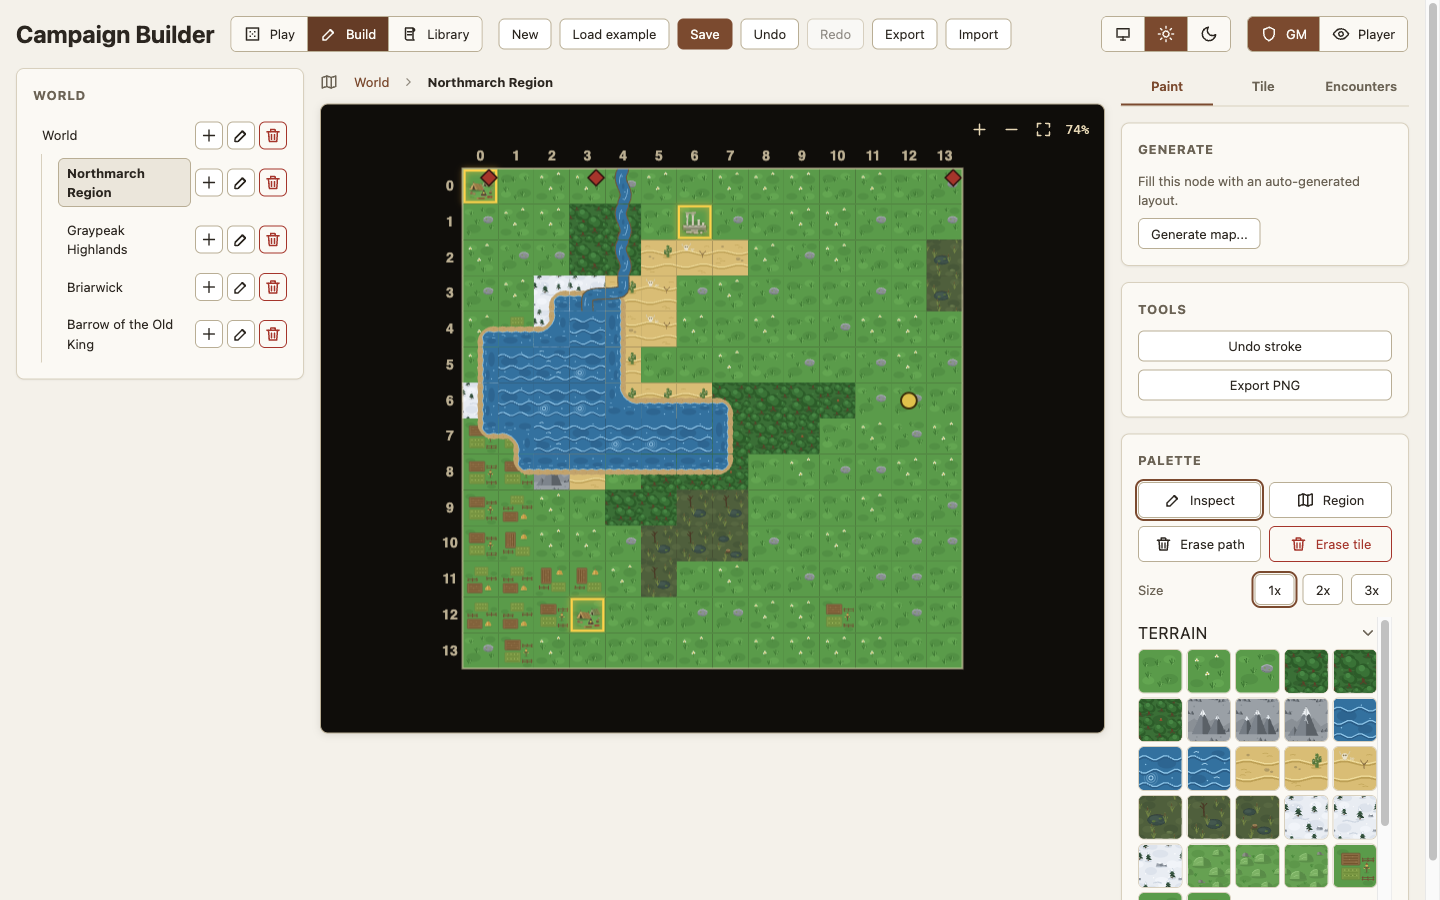
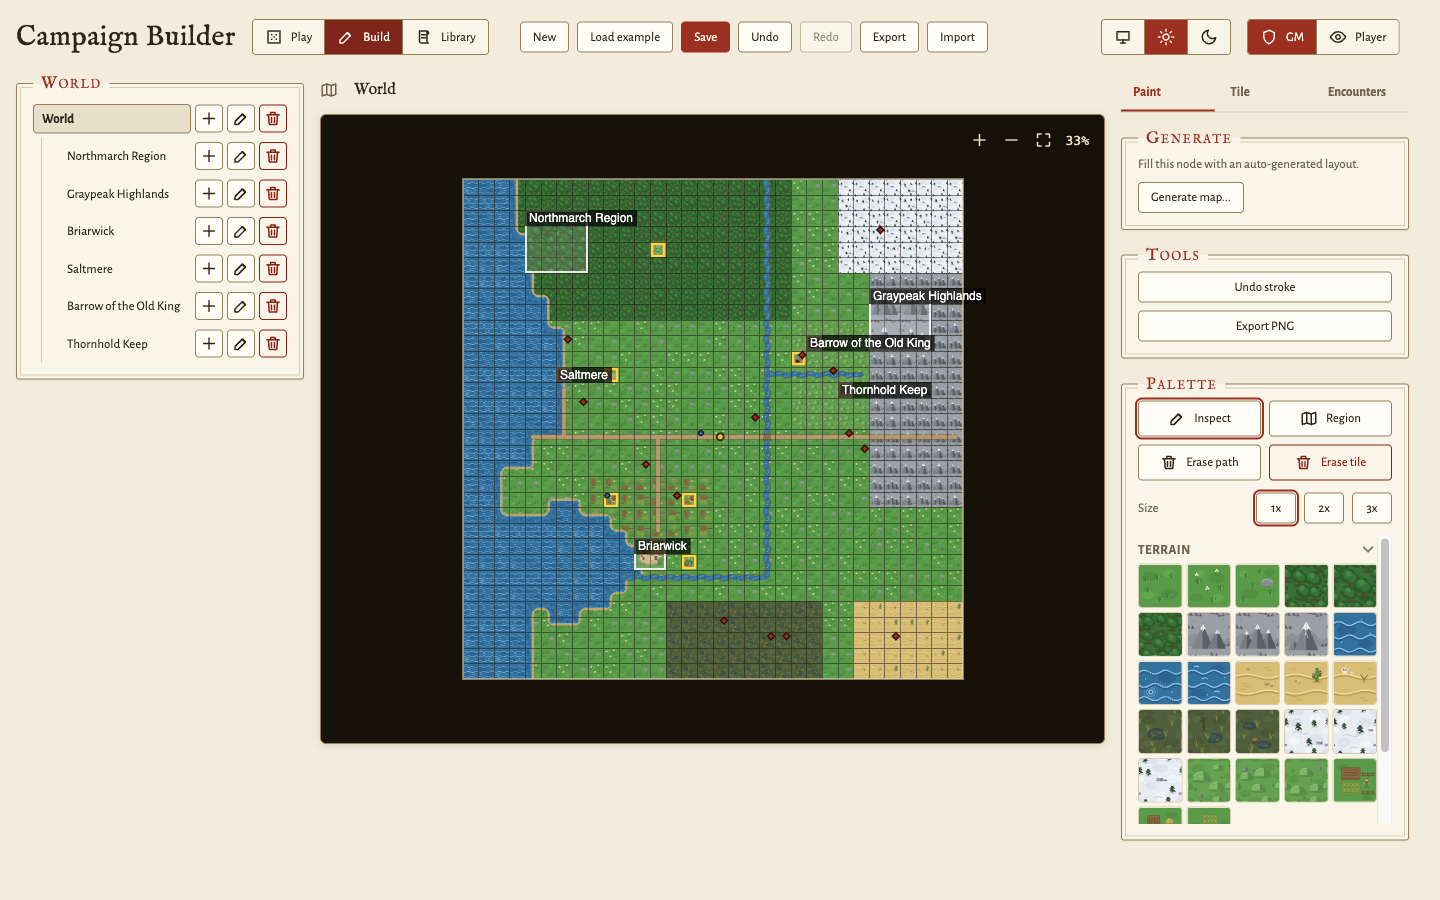
Refresh the README screenshots for the new visual identity and release 1.16.0
The play-mode and build-mode images in docs/images now show the rubric-and-ink palette, the bundled typefaces, and the plate-framed panels. The combat-screen image still shows the old chrome; retaking it means running a fight against the saved campaign, so it waits for a session where that state is disposable.

Changed region(s): [[0.0, 0.0, 1.0, 1.0]]

diff --git a/docs/dev-guide.html b/docs/dev-guide.html
@@ -701,7 +701,7 @@
 
   <main>
     <header class="masthead">
-      <div class="eyebrow">Campaign Builder / v1.15.0</div>
+      <div class="eyebrow">Campaign Builder / v1.16.0</div>
       <h1>A developer guide to a codebase with no framework in it.</h1>
       <p class="lede">
         Plain HTML, CSS, and ES modules. No runtime dependency, and no compile step for
@@ -1000,7 +1000,7 @@
     </section>
 
     <footer>
-      <div class="stamp">This document was auto-generated from the source tree by scripts/build-dev-guide.mjs at source fingerprint 5fbf479d5b3b. Run <code>pnpm run guide</code> to rebuild.</div>
+      <div class="stamp">This document was auto-generated from the source tree by scripts/build-dev-guide.mjs at source fingerprint 61b0b0a22130. Run <code>pnpm run guide</code> to rebuild.</div>
     </footer>
   </main>
 </div>
